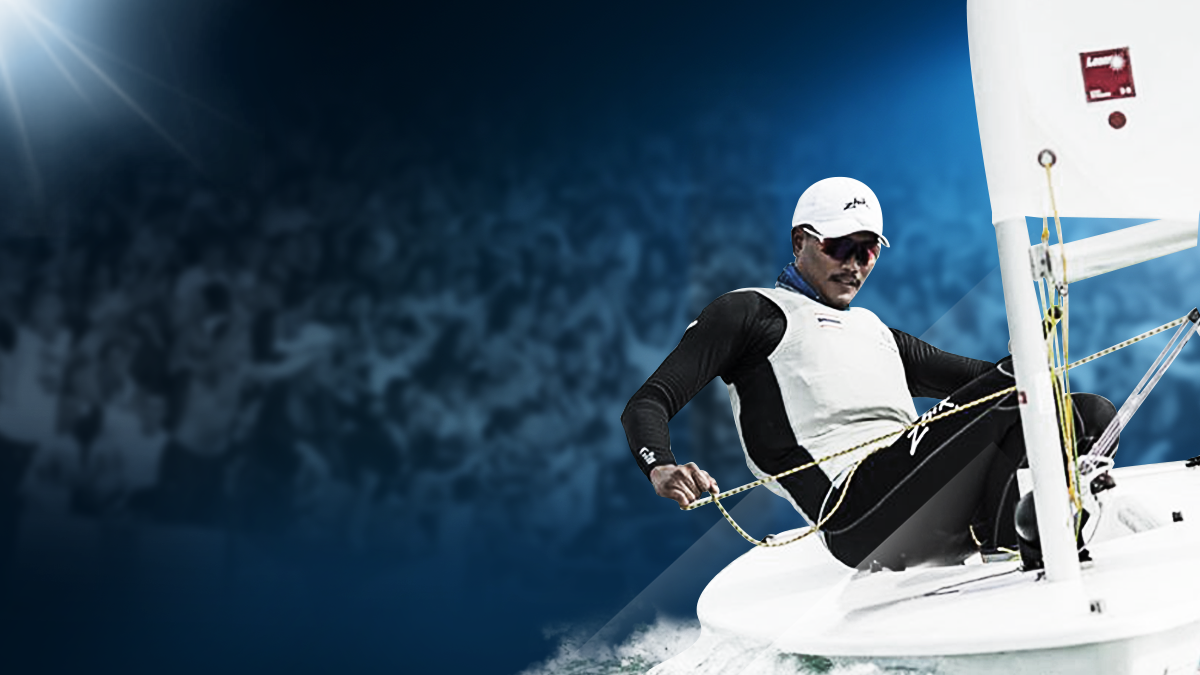
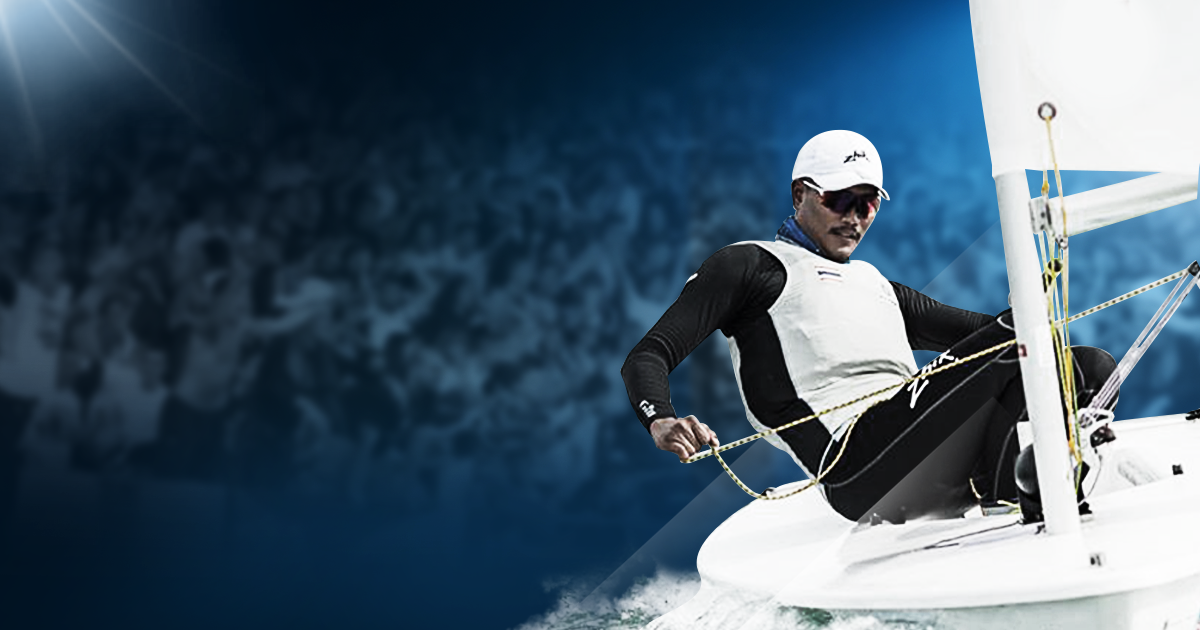
Fix ขนาดรูปภาพให้ตรงกรอบ

diff --git a/src/actions/result.actions.ts b/src/actions/result.actions.ts
@@ -80,7 +80,7 @@ export const drawResult = (canvasElement: HTMLCanvasElement) => async (dispatch,
   const Message = getState().result.messageIndex;
 
   // canvas meta
-  const canvasSize = {w: 1200 / 2, h: 675 / 2};
+  const canvasSize = {w: 1200 / 2, h: 630 / 2};
   const canvas: HTMLCanvasElement = canvasElement;
   const context = canvas.getContext('2d');
   let textPosition = {x: 60, y: 100};
